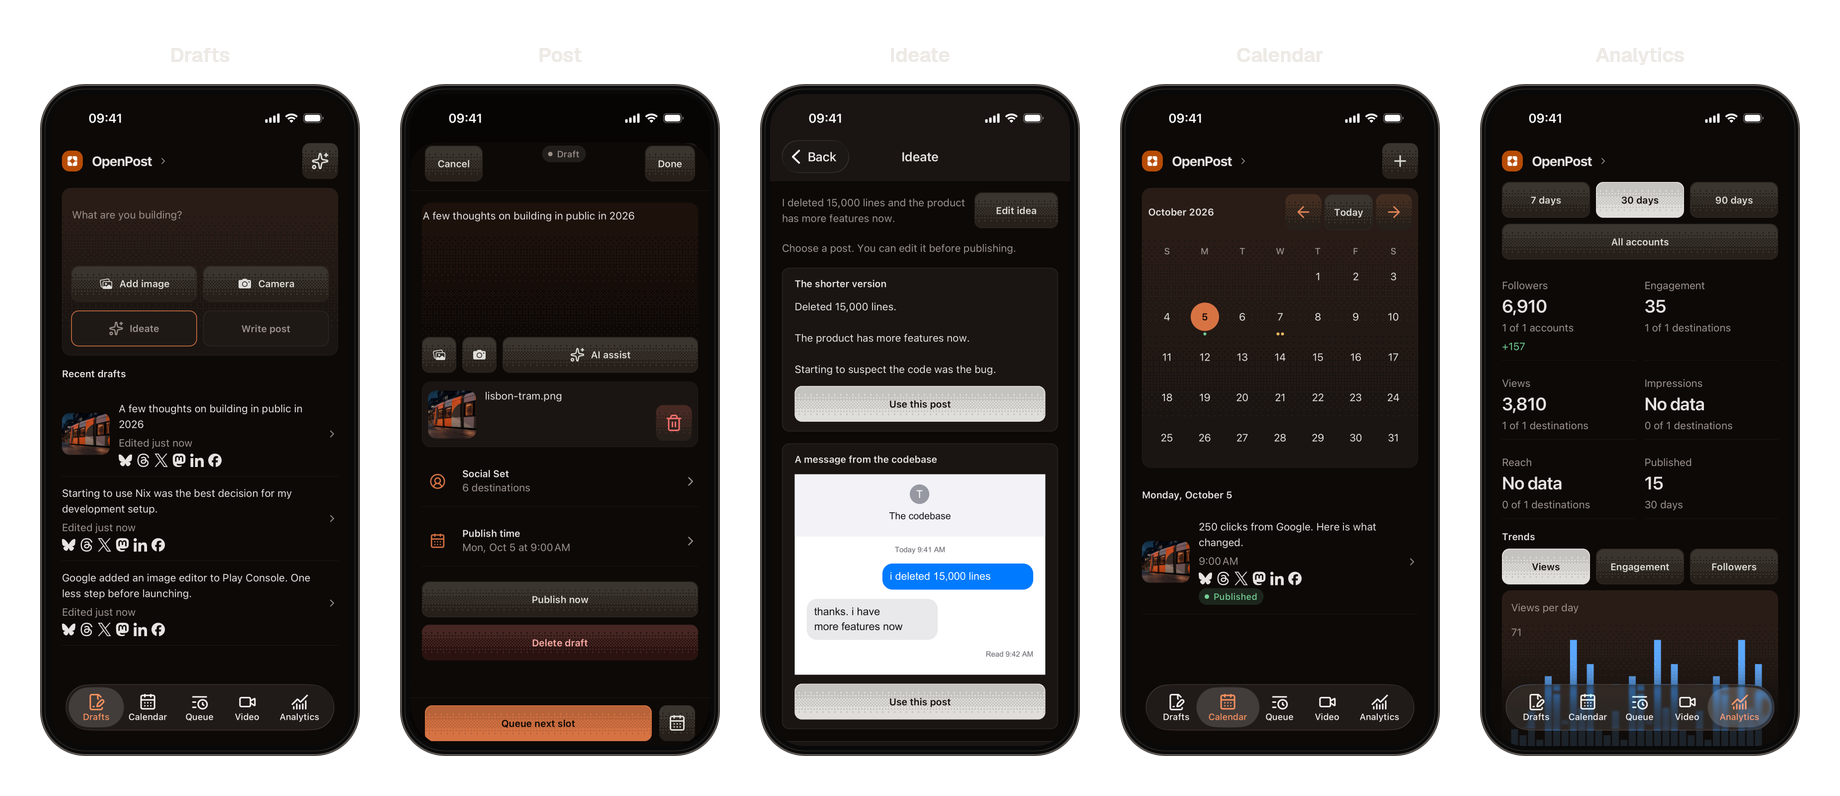
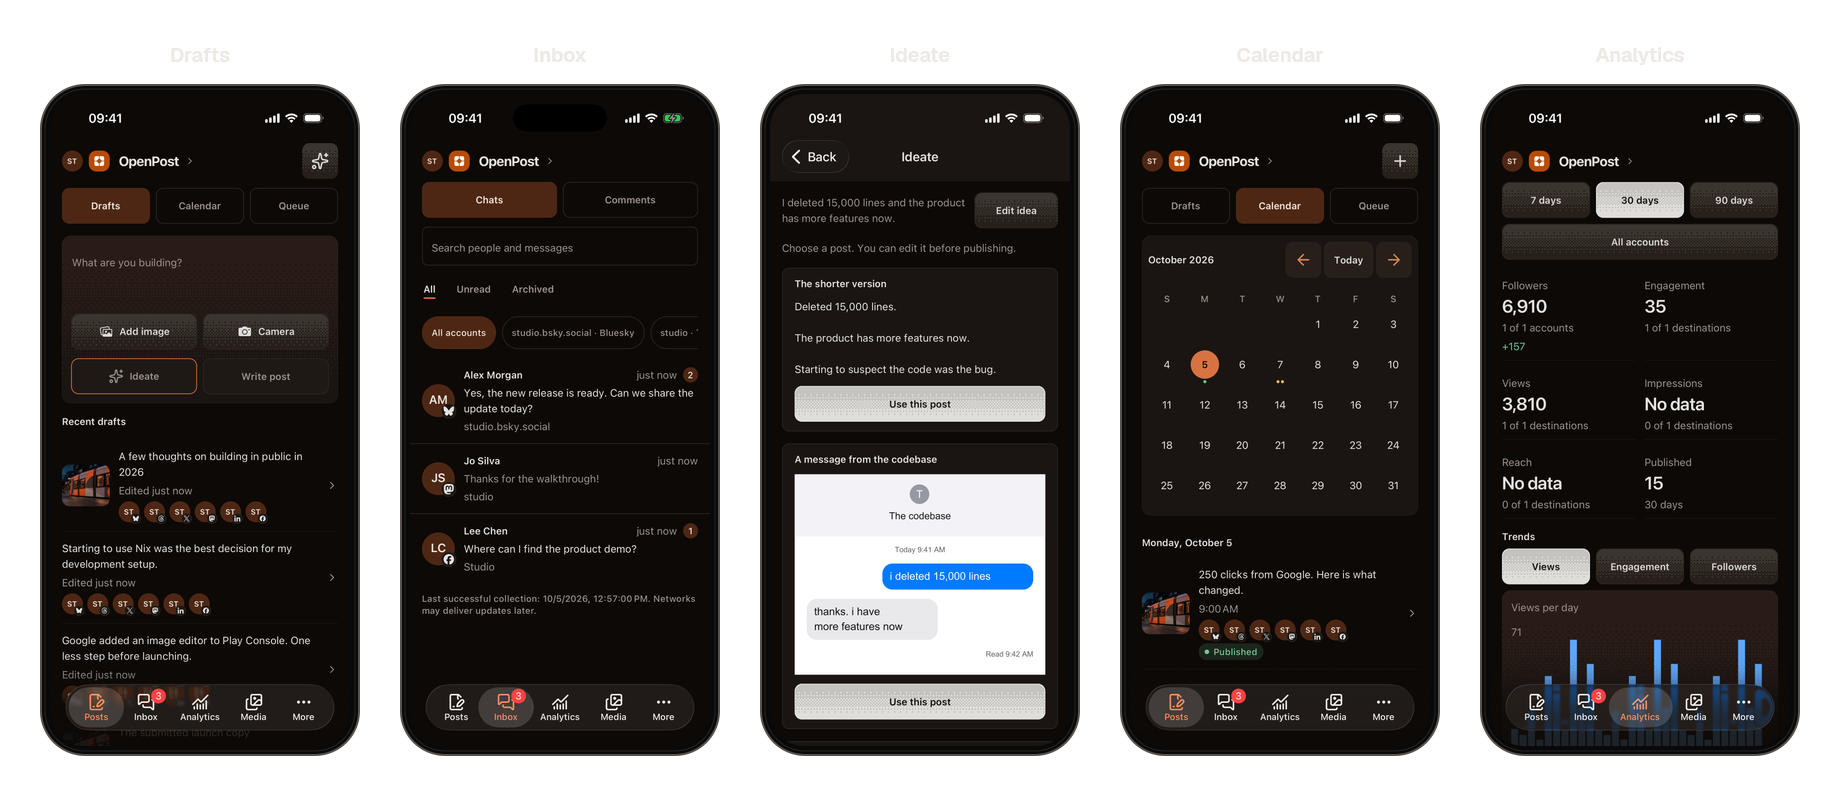
docs(mobile): refresh README galleries and stabilize native captures (OPENPOST-458)

diff --git a/README.md b/README.md
@@ -72,8 +72,8 @@
 
 <p align="center">
   <picture>
-    <source media="(prefers-color-scheme: dark)" srcset="./assets/screenshots/mobile-inbox-gallery-dark.png">
-    <img src="./assets/screenshots/mobile-inbox-gallery-light.png" alt="OpenPost on iOS with sample data: Chats, a conversation, Comments, a public reply, and Media" width="100%">
+    <source media="(prefers-color-scheme: dark)" srcset="./assets/screenshots/mobile-gallery-dark.png">
+    <img src="./assets/screenshots/mobile-gallery-light.png" alt="OpenPost on iOS: Drafts, Inbox, Ideate, Calendar, and Analytics, each shown in a labelled phone mockup" width="100%">
   </picture>
 </p>
 
@@ -86,7 +86,7 @@
 - <img src="./assets/brand/features/repost.svg" alt="" width="24" height="24" align="top"> **Auto repost.** Set delays and engagement rules for native reposts on supported networks. Override the defaults for individual posts.
 - <img src="./assets/brand/features/media.svg" alt="" width="24" height="24" align="top"> **[Media library](https://openpo.st/docs/guides/media-library).** Keep reusable images, videos, fonts, and brand assets in your workspace. Organize files with tags, collections, and favorites. Attach saved media without uploading it again.
 - <img src="./assets/brand/features/memes.svg" alt="" width="24" height="24" align="top"> **[Meme maker](https://openpo.st/docs/guides/media-library#add-media-to-a-post).** Pick a template, edit its captions, and replace its images. Save the result to your media library or attach it to a post.
-- <img src="./assets/brand/features/inbox.svg" alt="" width="24" height="24" align="top"> **[Inbox and messages](https://openpo.st/docs/guides/inbox).** Read and reply to supported comments and direct messages without switching between social apps.
+- <img src="./assets/brand/features/inbox.svg" alt="" width="24" height="24" align="top"> **[Inbox and messages](https://openpo.st/docs/guides/inbox).** Read and reply to supported comments and direct messages without switching between social apps. [View the mobile Inbox screens](./assets/screenshots/mobile-inbox-gallery-light.png).
 - <img src="./assets/brand/features/analytics.svg" alt="" width="24" height="24" align="top"> **[Analytics and repurposing](https://openpo.st/docs/guides/analytics).** Compare post results and track audience changes across your accounts. Use a previous post as the starting point for a new draft.
 - <img src="./assets/brand/features/grow.svg" alt="" width="24" height="24" align="top"> **Find people.** Find accounts to follow on Bluesky and Mastodon. Review the suggestions and choose who to follow.
 - <img src="./assets/brand/features/ideas.svg" alt="" width="24" height="24" align="top"> **AI writing and ideas.** Generate ideas, compare draft directions, and adapt posts for your selected platforms. You review the result before publishing. AI writing is optional. [Self-hosted AI setup](https://openpo.st/docs/self-hosting/ai).
